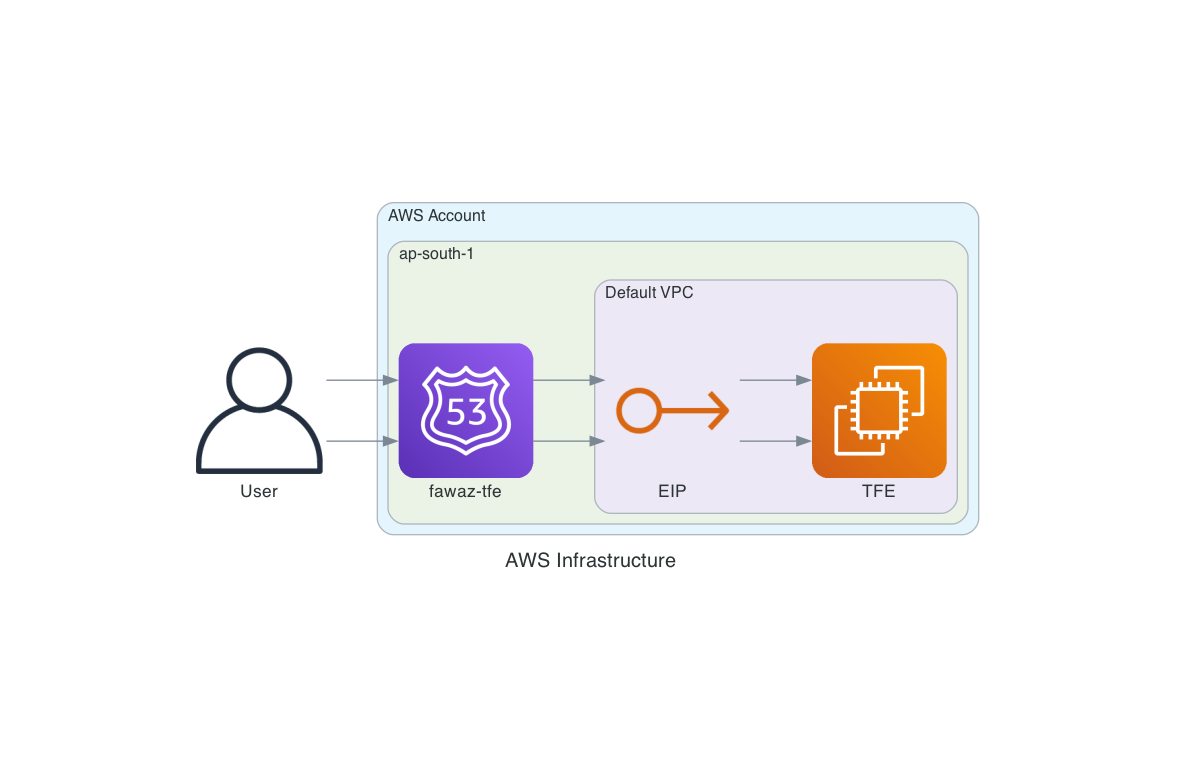
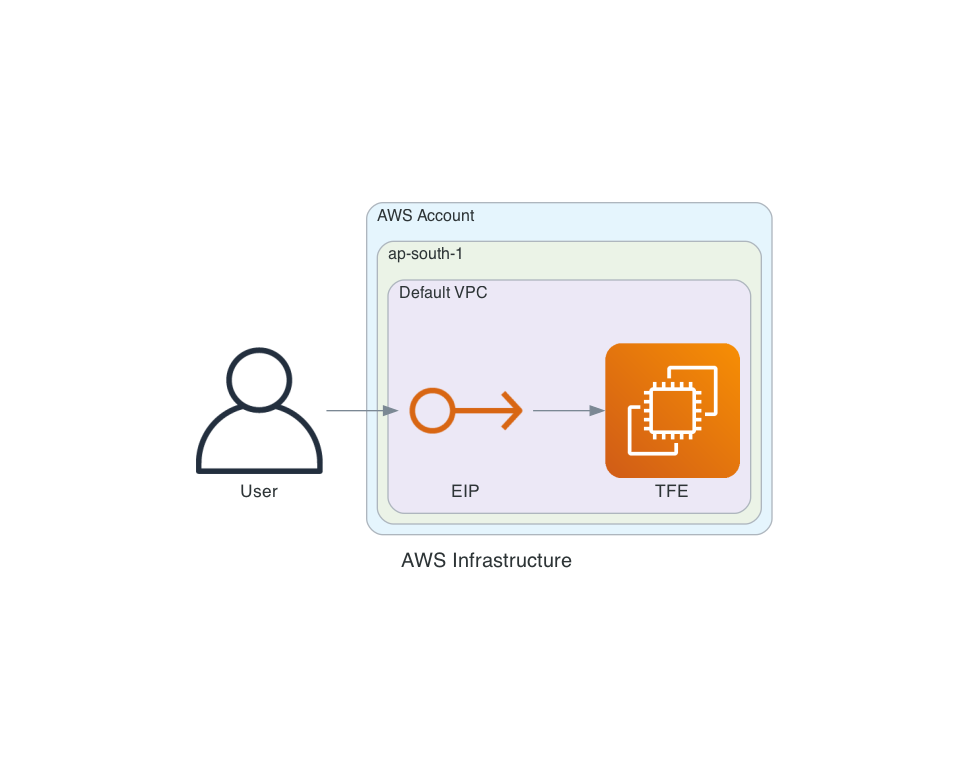
diagram updated

diff --git a/diagram/main.py b/diagram/main.py
@@ -17,6 +17,4 @@ with Diagram("AWS Infrastructure", show=False):
                     eip = EC2ElasticIpAddress("EIP")
                     ec2 = EC2("TFE")
             # Create the Route53 record
-            record = Route53("fawaz-tfe")
-    usr >> record >> eip >> ec2
-    usr >> record >> eip >> ec2
+    usr >> eip >> ec2
